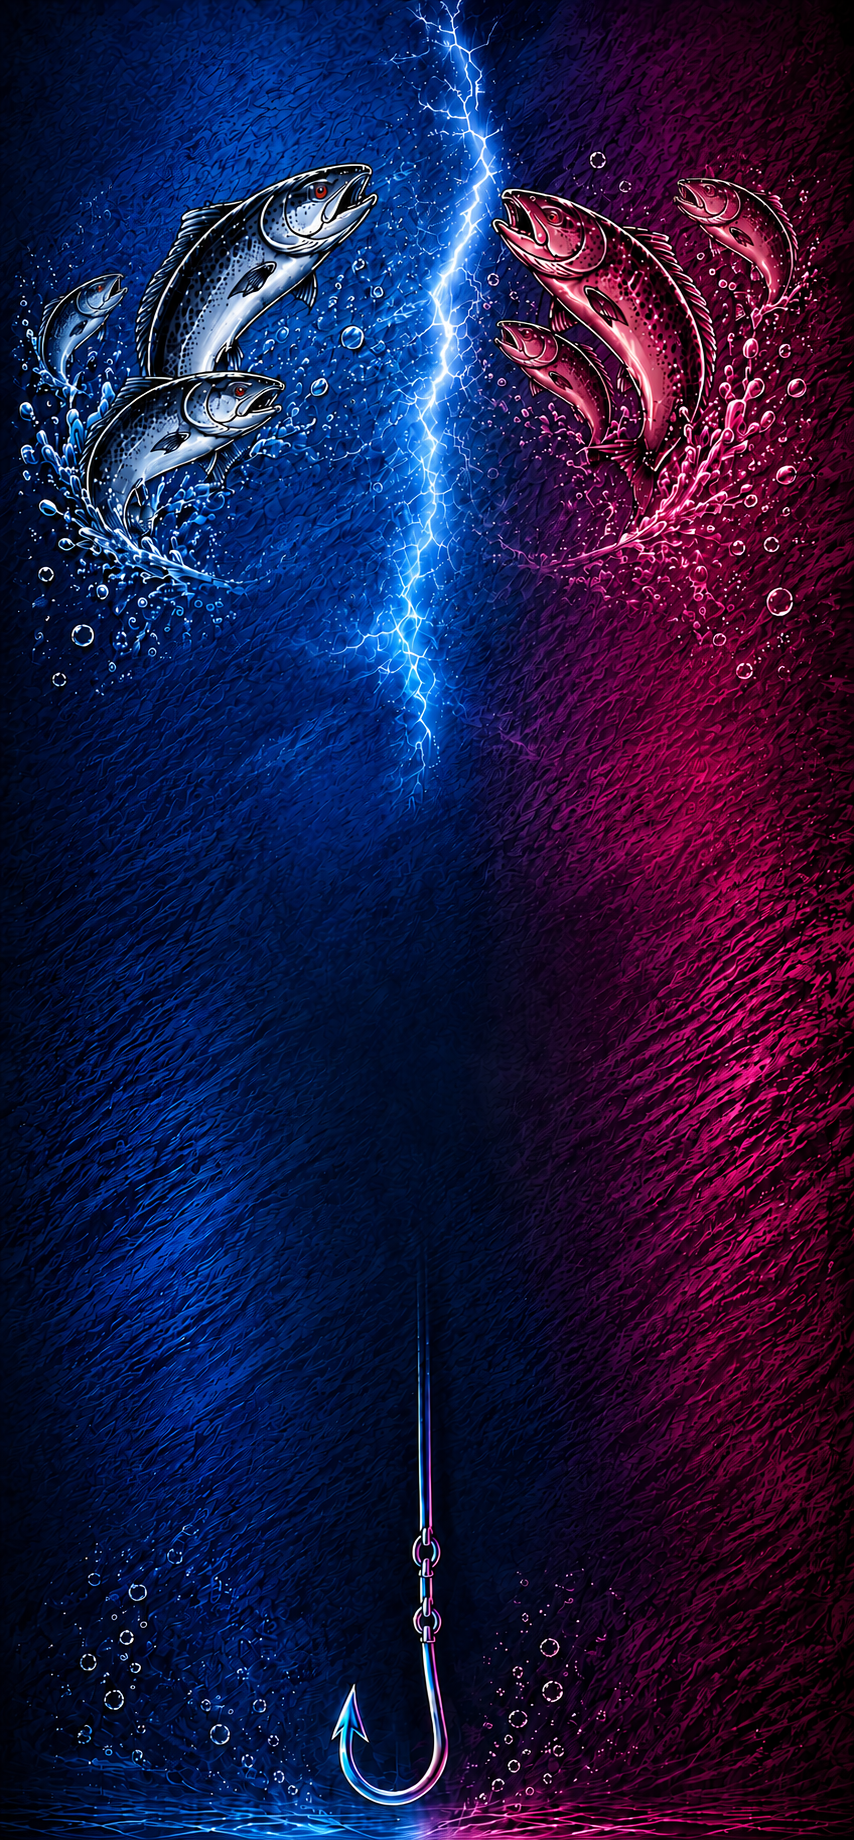
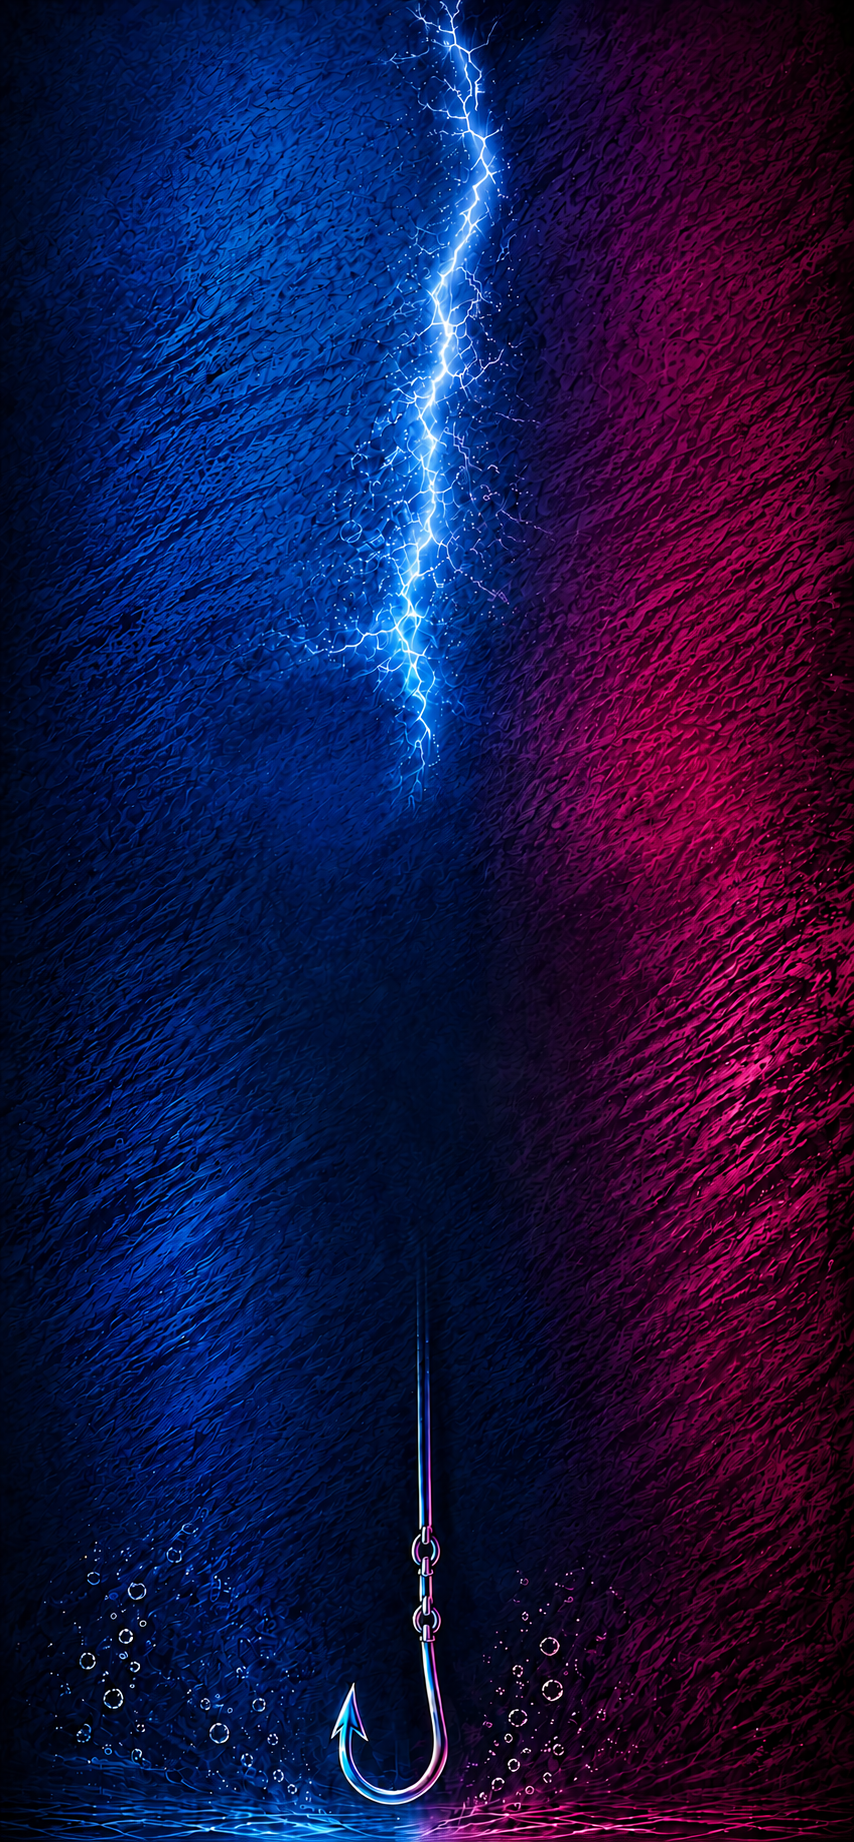
settings button polish

diff --git a/style.css b/style.css
@@ -2558,6 +2558,95 @@ h2 {
   color: var(--muted);
 }
 
+.settings-card {
+  position: relative;
+  padding: 26px 26px 28px;
+  border-color: rgb(86 202 255 / 24%);
+  background: linear-gradient(145deg, rgb(15 22 45 / 98%), rgb(6 9 25 / 98%));
+  box-shadow:
+    -8px 0 28px rgb(31 162 255 / 8%),
+    8px 0 28px rgb(241 47 142 / 7%),
+    0 22px 70px rgb(0 0 0 / 50%);
+}
+
+.settings-card h2 {
+  margin: 0 50px 28px;
+  font-size: 1.55rem;
+  line-height: 1.15;
+}
+
+.settings-close-button {
+  position: absolute;
+  top: 14px;
+  left: 14px;
+  display: grid;
+  width: 44px;
+  min-height: 44px;
+  padding: 0 0 2px;
+  border: 1px solid rgb(148 211 239 / 32%);
+  border-radius: 50%;
+  background: rgb(4 11 27 / 78%);
+  box-shadow:
+    0 0 10px rgb(61 217 255 / 10%),
+    0 7px 18px rgb(0 0 0 / 28%),
+    inset 0 0 8px rgb(255 255 255 / 4%);
+  place-items: center;
+  color: rgb(246 249 255 / 94%);
+  font-size: 1.35rem;
+  font-weight: 450;
+  line-height: 1;
+  transition: background 110ms ease-out, border-color 110ms ease-out, transform 110ms ease-out;
+}
+
+.settings-close-button:active {
+  border-color: rgb(148 211 239 / 46%);
+  background: rgb(9 22 43 / 88%);
+  transform: scale(0.95);
+}
+
+.settings-name-section {
+  display: flex;
+  flex-direction: column;
+  align-items: center;
+}
+
+.settings-name-label {
+  color: rgb(199 208 225 / 74%);
+  font-size: 0.82rem;
+  font-weight: 550;
+  letter-spacing: 0.02em;
+  line-height: 1.2;
+}
+
+.settings-current-name {
+  position: relative;
+  margin-top: 5px;
+  padding-bottom: 9px;
+  color: #f8faff;
+  font-size: clamp(1.55rem, 7vw, 1.85rem);
+  font-weight: 850;
+  line-height: 1.15;
+  overflow-wrap: anywhere;
+}
+
+.settings-current-name::after {
+  position: absolute;
+  right: 18%;
+  bottom: 0;
+  left: 18%;
+  height: 2px;
+  border-radius: 999px;
+  background: linear-gradient(90deg, rgb(61 217 255 / 70%), rgb(241 90 154 / 62%));
+  box-shadow: 0 0 7px rgb(61 217 255 / 14%);
+  content: "";
+}
+
+.settings-rename-button {
+  width: 100%;
+  min-height: 52px;
+  margin-top: 24px;
+}
+
 .modal-actions {
   display: grid;
   grid-template-columns: 1fr 1fr;

diff --git a/index.html b/index.html
@@ -13,7 +13,7 @@
     <title>Fischteich Angel</title>
     <link rel="manifest" href="./manifest.webmanifest">
     <link rel="apple-touch-icon" sizes="180x180" href="./assets/apple-touch-icon.png">
-    <link rel="stylesheet" href="./style.css?v=74">
+    <link rel="stylesheet" href="./style.css?v=75">
     <!-- Official @supabase/supabase-js v2.112.4 UMD browser build. -->
     <script src="./vendor/supabase.js?v=2.112.4" defer></script>
     <script src="./supabase-client.js?v=1" defer></script>
@@ -396,10 +396,9 @@
         <button class="settings-close-button" id="close-settings" type="button" aria-label="Einstellungen schließen">×</button>
         <h2 id="settings-title">Einstellungen</h2>
         <div class="settings-name-section">
-          <span class="settings-name-label">Name</span>
+          <span class="settings-name-label">Aktueller Name</span>
           <strong class="settings-current-name" id="settings-current-name"></strong>
           <button class="primary-button settings-rename-button" id="open-display-name-rename" type="button">Name ändern</button>
-          <p class="settings-name-hint">Der Name wird für zukünftige Roulette-Stats verwendet.</p>
         </div>
       </section>
     </div>
